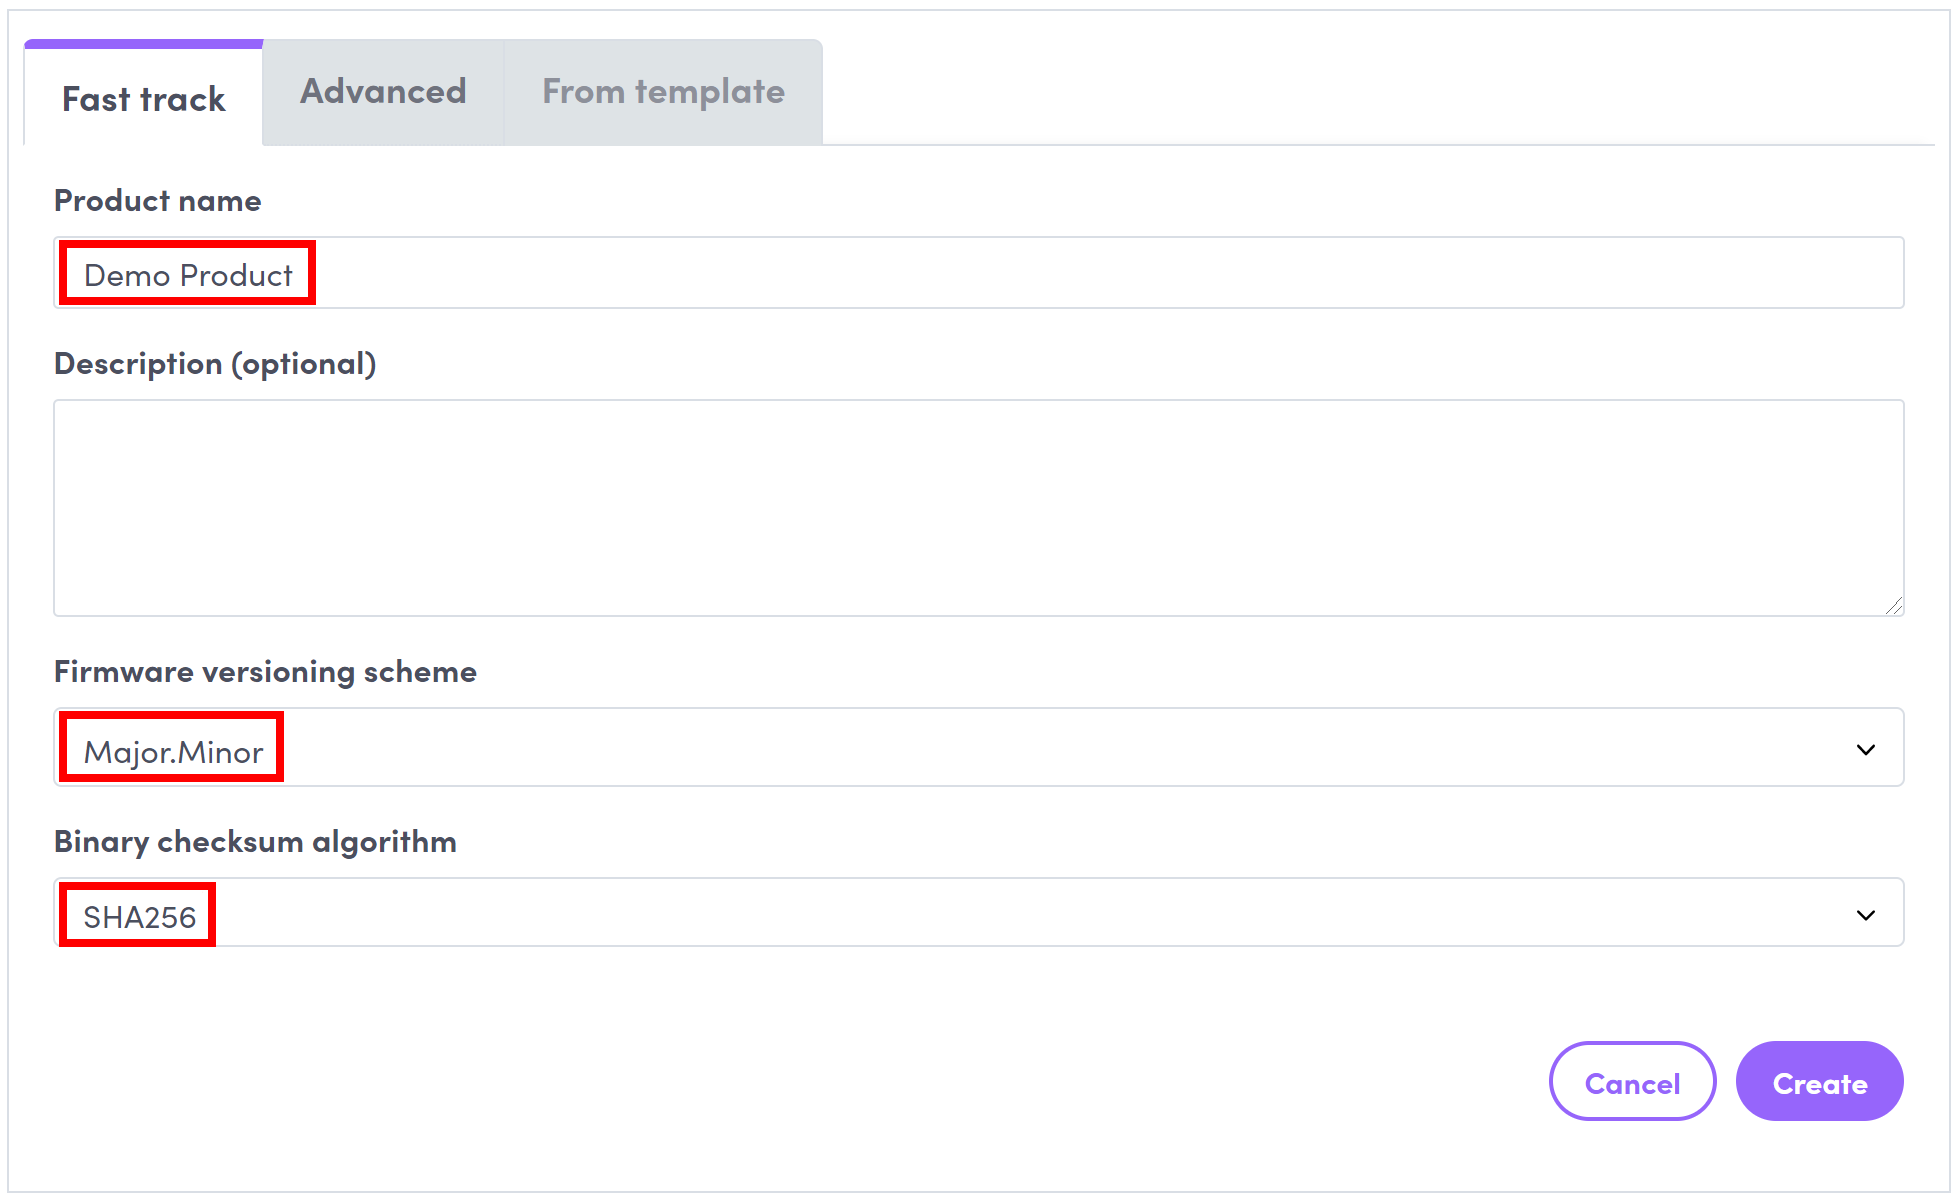
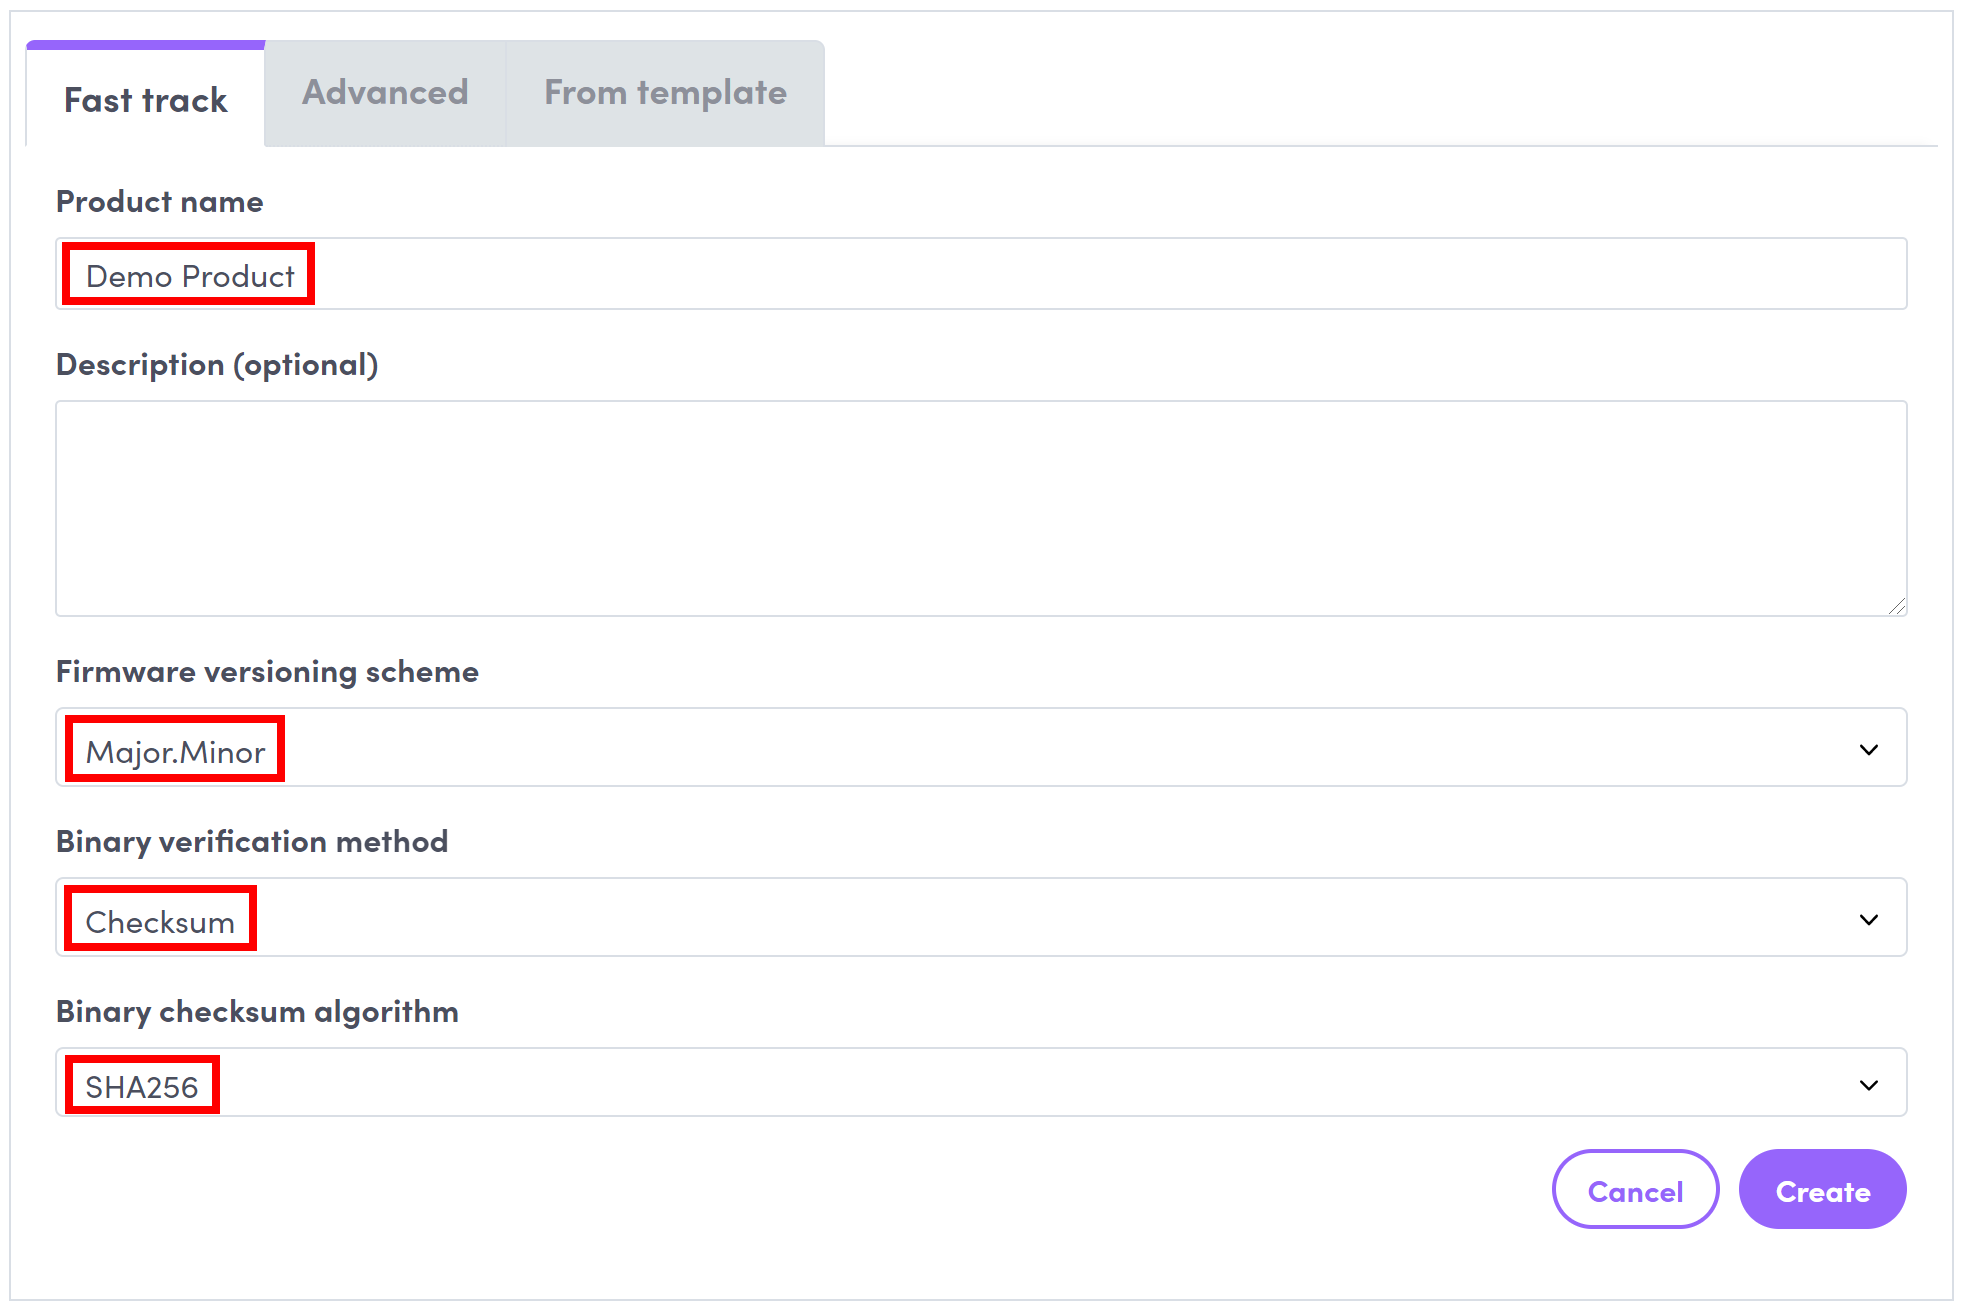
FotaHub Device SDK for Windows 1.0.0-4

diff --git a/docs/getting-started/simple.md b/docs/getting-started/simple.md
@@ -14,17 +14,11 @@ e.g., `1.1:a15d5599d8745ff4f51690eb3996afcf75d0b1729d1b8cda2491b03940417521`
 
 Once a valid update info string has been found in the `DemoProductUpdate.info` file and the contained new firmware version is different from the version of the already running firmware program, the firmware update procedure is triggered. It involves your laptop or computer to connect to FotaHub and download the binary (i.e., the Windows EXE file) of the new firmware version. Thereby it uses a dedicated URL including the id of the product representing the device in FotaHub, and the name and the version of the firmware binary to be retrieved.
 
-The downloaded firmware binary is stored in a new firmware program file that has the same name as the original one followed by an imaginary partition index '1' (e.g., `DemoProduct1.exe`). At the same time, the downloaded firmware binary's checksum gets recalculated and compared to the checksum included in the previously communicated update info string. If both are matching the firmware update gets activated by loading and executing the new firmware program file as a new child process. This causes the original firmware program to be replaced with a running instance of the new firmware version downloaded from FotaHub.  
+The downloaded firmware binary is stored in a new firmware program file that has the same name as the original one followed by an imaginary partition index '1' (e.g., `DemoProduct1.exe`). At the same time, the downloaded firmware binary's checksum gets recalculated and compared to the checksum included in the previously communicated update info string. If both match the firmware update gets activated by loading and executing the new firmware program file as a new child process. This causes the original firmware program to be replaced with a running instance of the new firmware version downloaded from FotaHub.  
 
 ## Installation
 
-Unless you prefer to go for an alternative solution, we recommend to install and use [MSYS2](https://www.msys2.org) as GCC compiler/linker toolchain and [Visual Studio Code](https://code.visualstudio.com) as code editor/IDE.
-
-To enable MSYS2 `make`, `gcc`, etc. to be invoked conveniently from Visual Studio Code's integrated terminal, add the following locations to your user or system level `Path` environment variable:
-- `C:\msys64\mingw64\bin`
-- `C:\msys64\usr\bin`
-
-> &#x1F6C8; The indicated locations assume that you have installed MSYS2 into `C:\msys64`. If this is not the case, make sure to adjust them accordingly.
+A description of the tools that must be available on your laptop or computer and advise how to install them can be found [here](../../README.md#installation).
 
 ## Usage
 
@@ -34,7 +28,7 @@ Create a FotaHub product for your imaginary IoT device as explained [here](../fo
 
 ### Create initial firmware version
 
-1. Start the Visual Studio Code and open (`File > Folder...`) the `Simple` example included in the FotaHub Device SDK for Windows (`<device-sdk-root>\examples\simple`)
+1. Start the Visual Studio Code and open (`File > Folder...`) the `Simple` example included in the FotaHub Device SDK for Windows (`<device-sdk-root>\examples\simple`).
 
 2. Open the `DemoProductInfo.h` file, and initialize the `DEMO_PRODUCT_ID` and `DEMO_PRODUCT_NAME` constants with the id and the name of the previously created FotaHub product. Leave the `DEMO_PRODUCT_FIRMWARE_VERSION` as is for now. In case you have selected anything else than `SHA256` as the binary checksum algorithm for your FotaHub product, you also must adjust the `DEMO_PRODUCT_FIRMWARE_UPDATE_VERIFICATION_ALGORITHM` constant accordingly:
 
@@ -58,7 +52,7 @@ make
 
 4. You can find the resulting firmware program (i.e., Windows EXE file) in the `build\win32\debug\bin` folder (using the `Explorer` view). Its name equals the name of the FotaHub product configured in the `DemoProductInfo.h` file without spaces (e.g., `DemoProduct.exe`).
 
-### Create and upload new firmware version to FotaHub
+### Create and upload a new firmware version to FotaHub
 
 1. Go back to the `DemoProductInfo.h` file, and bump the `DEMO_PRODUCT_FIRMWARE_VERSION` constant:
 
@@ -74,7 +68,7 @@ make UPDATE=y
 
 3. Locate the resulting new firmware program in the  `build\win32\debug\bin` folder (using the `Explorer` view). Its name is the name of the FotaHub product configured in the `DemoProductInfo.h` file without spaces followed by an `Update` suffix (e.g., `DemoProductUpdate.exe`).
    
-> &#x1F6C8; You can locate these files also in Windows Explorer or copy their paths to the clipboard using corresponding Visual Studio Code context menu actions (`Reveal in File Explorer` and `Copy Path`). This can come quite handy in the subsequent steps.
+> &#x1F6C8; You can locate the new firmware program file also in Windows Explorer or copy its path to the clipboard using corresponding Visual Studio Code context menu actions (`Reveal in File Explorer` and `Copy Path`). This can come quite handy in the subsequent steps.
 
 4. Upload the new firmware program (e.g., `DemoProductUpdate.exe`) as firmware version `1.1` to your FotaHub product as explained [here](../fotahub/upload-firmware.md).
 
@@ -86,7 +80,7 @@ make UPDATE=y
 build\win32\debug\bin\<product-name>.exe
 ```
 
-1. The firmware program outputs a banner including the product name and the initial firmware version. It also creates and opens the `DemoProductUpdate.info` file directly in Visual Studio Code (if the latter is not installed on your machine, you will need to open the `DemoProductUpdate.info` file manually in an editor of you choice):
+2. The firmware program prints a banner including the product name and the initial firmware version into the terminal output. It also creates and opens the `DemoProductUpdate.info` file directly in Visual Studio Code (if the latter is not installed on your machine, you will need to open the `DemoProductUpdate.info` file manually in an editor of you choice):
    
 ![](simple-1.png "Launch of initial firmware version") 
 
@@ -96,7 +90,7 @@ build\win32\debug\bin\<product-name>.exe
 
 > &#x1F6C8; You can find the checksum of the new firmware version by selecting it in the `Details` section of your [FotaHub](https://fotahub.com) product and locating it in the properties of the same.
 
-4. This will trigger the firmware over-the-air update procedure. Upon successful completion, the initial firmware program exits and the new firmware version downloaded from FotaHub is started automatically. To verify that, check the firmware version included in the banner that is output when the new firmware program gets launched:
+4. This will trigger the firmware over-the-air update procedure. Upon successful completion, the initial firmware program exits and the new firmware version downloaded from FotaHub is started automatically. To verify that, check the firmware version in the banner being printed into the terminal output:
 
 ![](simple-3.png "Execution of FOTA update")
 

diff --git a/docs/getting-started/revertible.md b/docs/getting-started/revertible.md
@@ -6,12 +6,12 @@ The *Revertible* example is an enhanced version of the [Simple](simple.md) examp
 
 The firmware over-the-air update procedure gets triggered and works in the same way as in the [Simple](simple.md) example up to the point where the new firmware version gets activated. Right after starting the new firmware version, a built-in self test procedure is launched. Only when the latter completes successfully, the new firmware version is confirmed and becomes definite. In the opposite case, the previous firmware version is restored.
 
-For obvious reasons, the ultimately required self test logic depends heavily on the nature of the underlying IoT application and device. The revertible example therefore implements only a very simple self test stub which returns a positive or negative result on a pseudo-random basis (see [DemoFOTAUpdateSelfTest.c](../../examples/revertible/DemoFOTAUpdateSelfTest.c) for details). Consequently, the firmware update carried out in this example may succeed and remain in place or fail and be reverted to the previous version depending on how it goes. To see both scenarios happening, just run the same example multiple times.
+For obvious reasons, the ultimately required self test logic depends heavily on the nature of the underlying IoT application and device. The revertible example therefore implements only a very simple self test stub which returns a positive or negative result on a pseudo-random basis (see [DemoFOTAUpdateSelfTest.c](../../examples/revertible/DemoFOTAUpdateSelfTest.c) for details). Consequently, the firmware update carried out in this example may succeed and remain in place or fail and be reverted to the previous version depending on how it goes. To see both scenarios happening, just run the same example multiple times or set the `SIMULATED_ACTIVATION_SUCCESS_RATE` constant in [DemoFOTAUpdateSelfTest.h](../../examples/revertible/DemoFOTAUpdateSelfTest.h) to `0`.
 
 ## Usage
 
-1. Follow the usage instructions of the Simple example as described [here](simple.md).
+1. Follow the usage instructions of the Simple example as described [here](simple.md#usage).
 
-2. In the very last step, you will observe the same result and output as with the Simple example in case the built-in self test succeeds. Otherwise you will be able to see how the new fimware version stops executing and the previous firmware version resumes instead:
+2. In the very last step, you will observe the same result and a very similar terminal output as with the *Simple* example in case the built-in self test succeeds. Otherwise, you will see that the new fimware version initiates the reversion of the firmware update and exits, and how the previous firmware version resumes right after:
 
 ![](revertible-1.png "Reversion to previous firmware version") 

diff --git a/docs/fotahub/upload-firmware.md b/docs/fotahub/upload-firmware.md
@@ -10,14 +10,19 @@
 
 ![](upload-firmware-2.png "Firmware upload options")
 
-1. Enter the version of the firmware to be uploaded and optionally a comment. The version format must match the firmware versioning scheme defined upon product creation:
+4. Enter the version of the firmware to be uploaded and optionally a comment. The version format must match the firmware versioning scheme defined upon product creation:
 
 ![](upload-firmware-3.png "Upload firmware - step 1")
 
-5. Click on `Next` to get to the binary upload page. Drag & drop or browse the binary of the firmware to be uploaded:  
+5. Click on `Next` to get to the binary upload page. Drag & drop or browse the binary of the new firmware version to be uploaded:  
 
 ![](upload-firmware-4.png "Upload firmware - step 2")
 
-1. Click on `Next` and then on `Upload` to start the firmware upload process. When completed, you will get redirected back to the product details view and see the newly uploaded firmware version along with its properties. Most importantly, you will be able to find the firmware binary download URL and its checksum that has been automatically calculated based on the binary checksum algorithm chosen upon product creation: 
+
+> &#x1F6C8; If you have opted for `Signature` instead of `Checksum` as binary verification method for your product, you will be required to provide also the signature of the new firmware version. It must be based on the signature algorithm that you have configured upon product creation or through the product settings.
+
+6. Click on `Next` and then on `Upload` to start the firmware upload process. When completed, you will get redirected back to the product details view and see the newly uploaded firmware version along with its properties. Most importantly, you will be able to find the firmware binary download URL and its checksum that has been automatically calculated based on the binary checksum algorithm chosen upon product creation: 
 
 ![](upload-firmware-5.png "Upload firmware - step 3")
+
+> &#x1F6C8; If you have opted for `Signature` instead of `Checksum` as binary verification method for your product, the signature uploaded along with the new firmware version will be displayed instead of its checksum.

diff --git a/README.md b/README.md
@@ -4,7 +4,13 @@ The FotaHub&reg; Device SDK for Windows&reg; enables developers to create firmwa
 # Installation
 To use the FotaHub&reg; Device SDK for Windows&reg;, the following tools must be available on your laptop or computer:
 * A GCC compiler/linker toolchain, we recommend [MSYS2](https://www.msys2.org)
-* A text editor or IDE of your choice, e.g., [Visual Studio Code](https://code.visualstudio.com) 
+* A text editor or IDE of your choice, e.g., [Visual Studio Code](https://code.visualstudio.com)
+
+To enable MSYS2 `make`, `gcc`, etc. to be invoked conveniently from Visual Studio Code's integrated terminal, add the following locations to your user or system level `Path` environment variable:
+- `C:\msys64\mingw64\bin`
+- `C:\msys64\usr\bin`
+
+> &#x1F6C8; The indicated locations assume that you have installed MSYS2 into `C:\msys64`. If this is not the case, make sure to adjust them accordingly.
 
 # Getting started
 The best way to get started with the FotaHub&reg; Device SDK for Windows&reg; is to try out and study the included examples:

diff --git a/docs/fotahub/create-product.md b/docs/fotahub/create-product.md
@@ -6,7 +6,7 @@
 
 ![](create-product-1.png "Create a product") 
 
-3. In the product creation wizard, go ahead using the `Fast track` mode. Enter the name of your product, and select the firmware versioning scheme and binary checksum algorithm you want to use. Optionally, you can also add a description for your product. To begin with, simply choose the values matching the default configuration of the FotaHub Device SDK examples as per below:
+3. In the product creation wizard, go ahead using the `Fast track` mode. Enter the name of your product and select the versioning scheme you want to use for your firmware versions. Also choose the binary verification method and algorithm your device or board uses to verify new firmware versions downloaded from FotaHub before applying them. Optionally, you can also add a description for your product. To begin with, simply choose the values matching the default configuration of the FotaHub Device SDK examples as per below:
 
 ![](create-product-2.png "Fast track product configuration")
 
